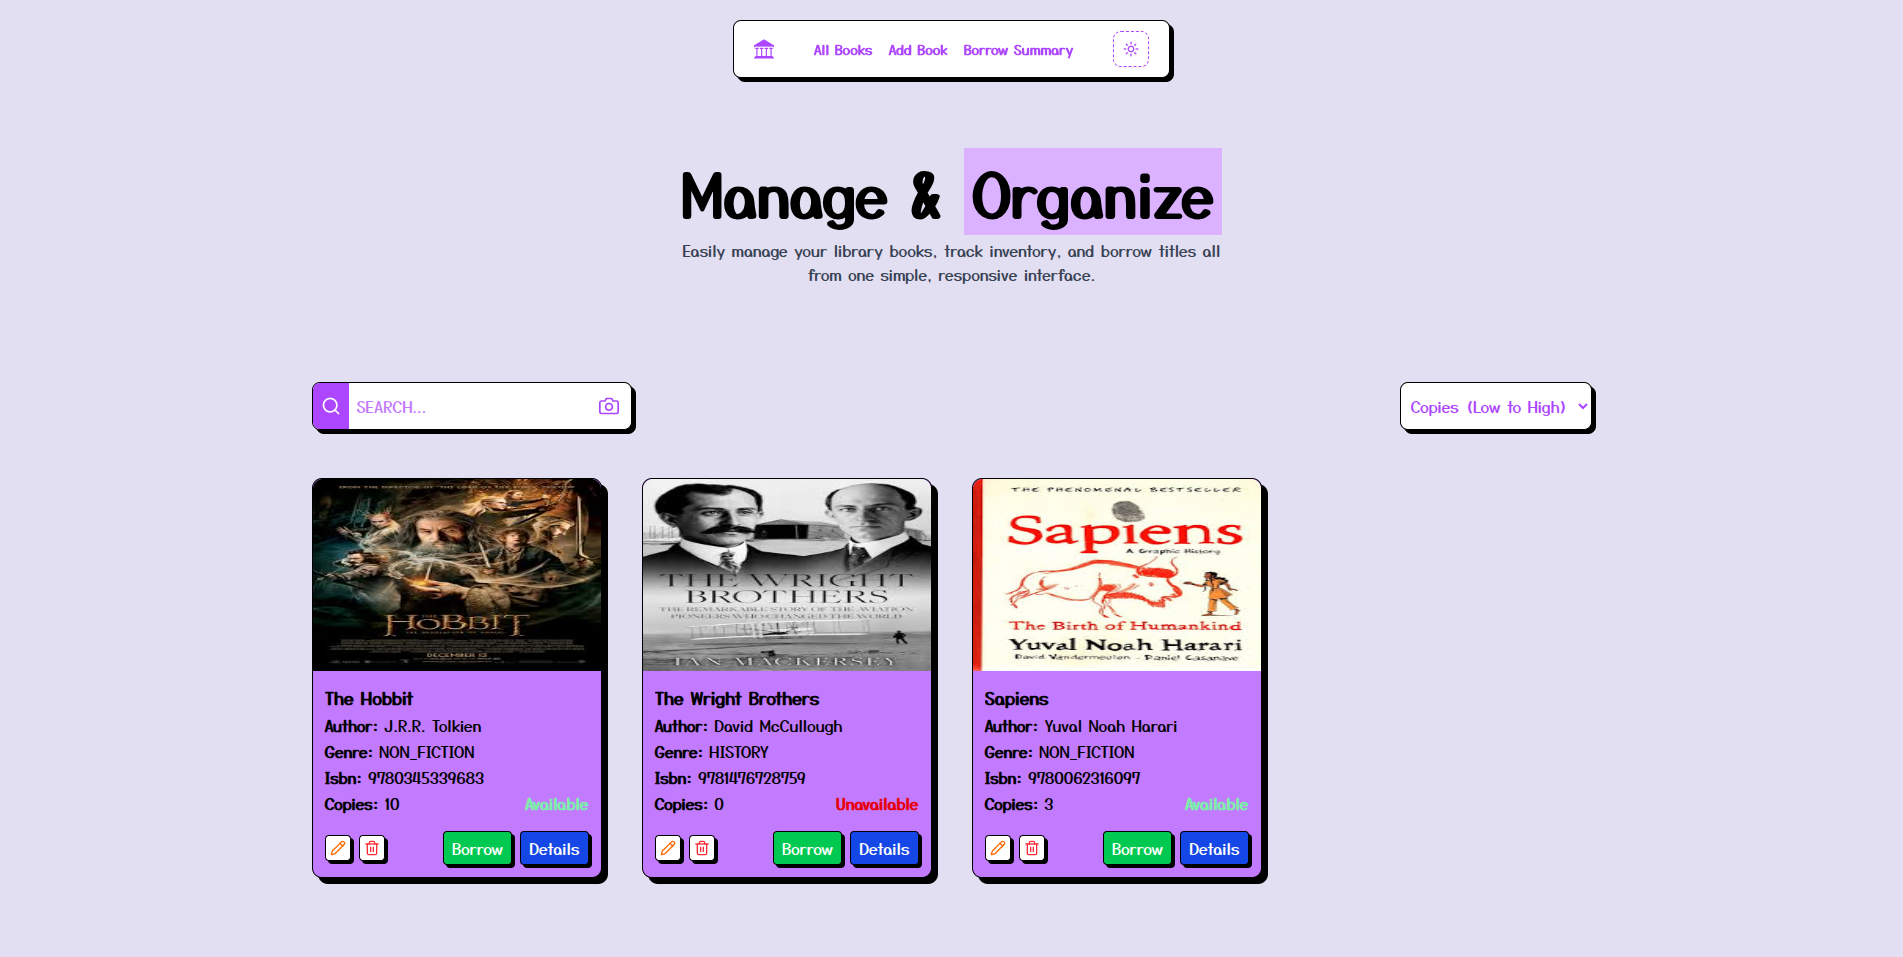
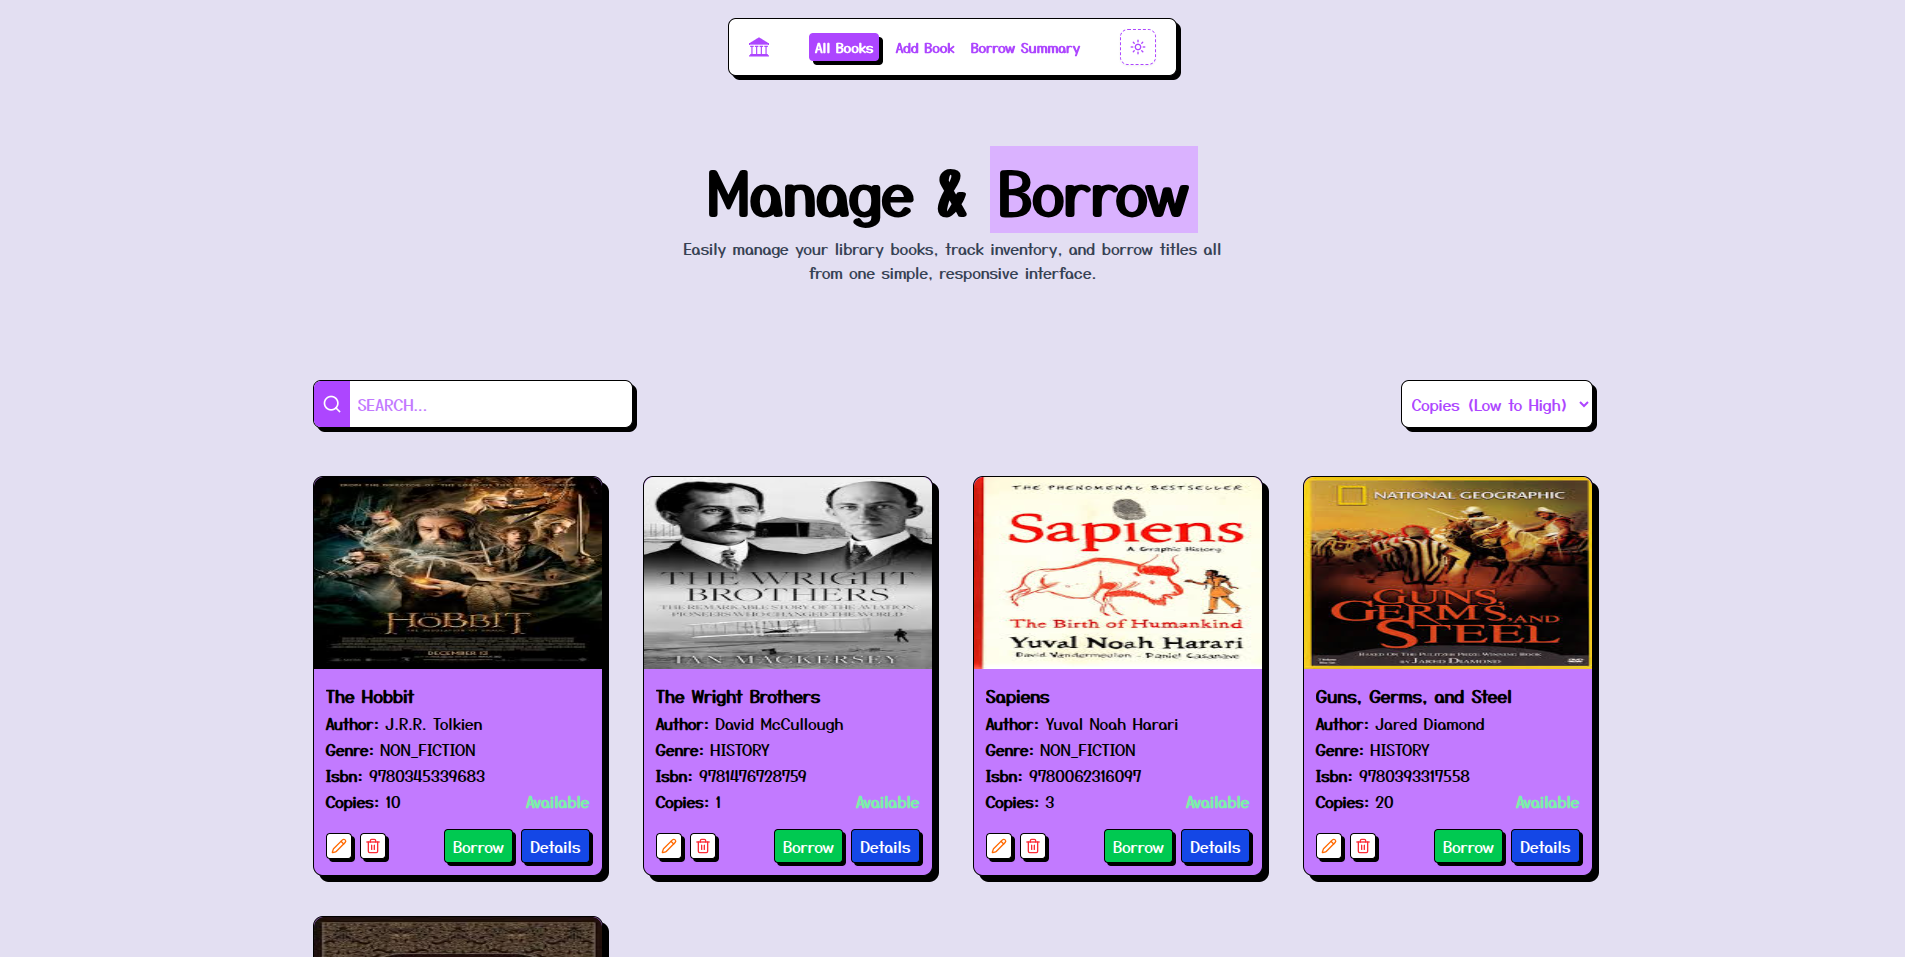
responsive issue solve

diff --git a/src/components/BooksList.tsx b/src/components/BooksList.tsx
@@ -4,7 +4,7 @@ import type { IBook } from "@/types/types";
 import { FiSearch } from "react-icons/fi";
 import { useState } from "react";
 import Spinner from "./Spinner";
-// import { MdOutlineKeyboardVoice } from "react-icons/md";
+// import { xlOutlineKeyboardVoice } from "react-icons/xl";
 
 const BooksList = () => {
   const { data, isLoading, error } = useGetAllBooksQuery();
@@ -15,8 +15,8 @@ const BooksList = () => {
   return (
     <div className="space-y-12">
       {/* search and sort */}
-      <div className="flex flex-col md:flex-row items-center justify-between gap-6">
-        <div className="max-w-80 h-12 flex items-center bg-white dark:bg-gray-900 rounded-md border border-black overflow-hidden  shadow-[4px_4px_0_black] transition hover:shadow-[1px_1px_0_black] ">
+      <div className="flex flex-col xl:flex-row items-center justify-between gap-6">
+        <div className="max-w-80 h-12 flex items-center bg-white dark:bg-gray-900 rounded-xl border border-black overflow-hidden  shadow-[4px_4px_0_black] transition hover:shadow-[1px_1px_0_black] ">
           <button
             type="submit"
             className="px-2 bg-purple-500 h-12 text-white cursor-pointer"
@@ -33,12 +33,12 @@ const BooksList = () => {
           />
 
           {/* <button type="button" className="p-3 text-purple-500 cursor-pointer">
-            <MdOutlineKeyboardVoice size={20} />
+            <xlOutlineKeyboardVoice size={20} />
           </button> */}
         </div>
         <select
           id="default"
-          className="max-w-80 h-12 px-1.5 flex items-center bg-white dark:bg-gray-900 rounded-md border border-black overflow-hidden shadow-[4px_4px_0_black] transition hover:shadow-[1px_1px_0_black] text-purple-500 focus:ring-black focus:border-black cursor-pointer"
+          className="max-w-80 h-12 px-1.5 flex items-center bg-white dark:bg-gray-900 rounded-xl border border-black overflow-hidden shadow-[4px_4px_0_black] transition hover:shadow-[1px_1px_0_black] text-purple-500 focus:ring-black focus:border-black cursor-pointer"
         >
           <option disabled>Sort by</option>
           <option value="Copies (Low to High)">Copies (Low to High)</option>
@@ -54,7 +54,7 @@ const BooksList = () => {
       ) : books.length === 0 ? (
         <p className="text-center text-purple-500">No books found.</p>
       ) : (
-        <div className="grid md:grid-cols-4 gap-10 px-6 md:px-0">
+        <div className="grid md:grid-cols-2 lg:grid-cols-3 xl:grid-cols-4 gap-10 px-6 xl:px-0">
           {books.map((book: IBook) => (
             <Card book={book} key={book._id} />
           ))}

diff --git a/src/routes/index.tsx b/src/routes/index.tsx
@@ -4,6 +4,7 @@ import AllBooks from "@/pages/all-books/AllBooks";
 import AddBook from "@/pages/add-book/AddBook";
 import BorrowSummary from "@/pages/borrow-summary/BorrowSummary";
 import BookDetails from "../pages/book-details/BookDetails";
+import Home from "@/pages/home/Home";
 
 export const router = createBrowserRouter([
   {
@@ -12,11 +13,11 @@ export const router = createBrowserRouter([
     children: [
       {
         index: true,
-        element: <AllBooks />,
+        element: <Home />,
       },
       {
         path: "/",
-        element: <AllBooks />,
+        element: <Home />,
       },
       {
         path: "/all-books",

diff --git a/src/pages/home/Home.tsx b/src/pages/home/Home.tsx
@@ -1,9 +1,11 @@
+import BooksList from "@/components/BooksList";
 import HeroSection from "@/components/HeroSection";
 
 const Home = () => {
   return (
-    <div>
+    <div className="space-y-24">
       <HeroSection />
+      <BooksList />
     </div>
   );
 };

diff --git a/src/pages/all-books/AllBooks.tsx b/src/pages/all-books/AllBooks.tsx
@@ -1,10 +1,8 @@
 import BooksList from "@/components/BooksList";
-import HeroSection from "@/components/HeroSection";
 
 const AllBooks = () => {
   return (
     <div className="space-y-24">
-      <HeroSection />
       <BooksList />
     </div>
   );

diff --git a/README.md b/README.md
@@ -7,7 +7,7 @@
 
 ---
 
-**`Frontend`:** [Link](https://minimal-library-management-client.vercel.app)  
+**`Live`:** [Link](https://minimal-library-management-client.vercel.app)  
 **`API Documentation`:** [https://github.com/afsar-dev/Library-management-server/blob/main/README.md](https://github.com/afsar-dev/Library-management-server/blob/main/README.md)  
 
 ## 🚀 Features
